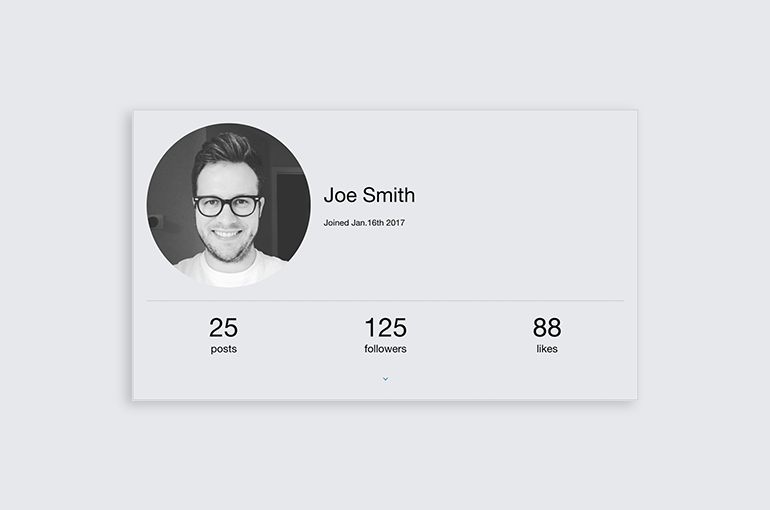
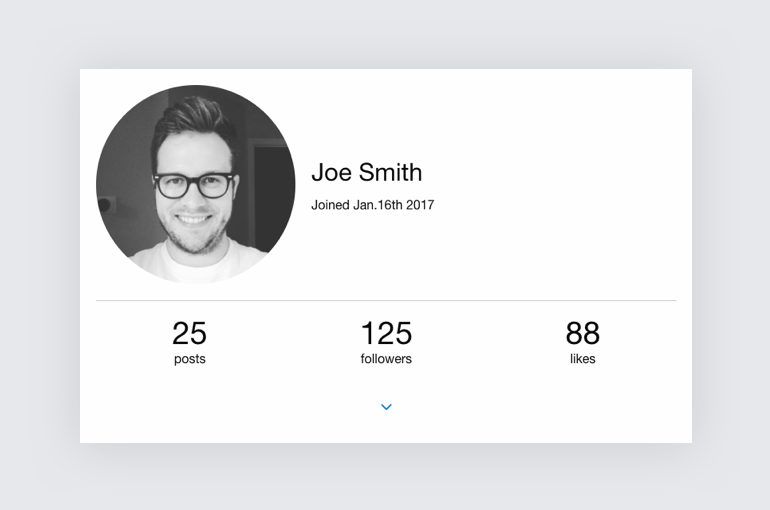
updates bg color and touch target

diff --git a/src/building-blocks/card-profile-stats/layout.html b/src/building-blocks/card-profile-stats/layout.html
@@ -1,39 +1,5 @@
 <div class="row align-center">
   <div class="medium-8 columns">
-      <div class="card-profile-stats">
-        <div class="card-profile-stats-intro">
-          <img class="card-profile-stats-intro-pic" src="https://pbs.twimg.com/profile_images/732634911761260544/OxHbNdTF.jpg" alt="profile-image" />
-          <div class="card-profile-stats-intro-content">
-            <h3>Joe Smith</h3>
-            <p><small>Joined Jan.16th 2017</small></p>
-          </div> <!-- /.card-profile-stats-intro-content -->
-        </div> <!-- /.card-profile-stats-intro -->
-
-        <hr />
-      			
-        <div class="card-profile-stats-container">
-          <div class="card-profile-stats-statistic">
-            <span class="stat">25</span>
-            <p>posts</p>
-          </div> <!-- /.card-profile-stats-statistic -->
-          <div class="card-profile-stats-statistic">
-            <span class="stat">125</span>
-            <p>followers</p>
-          </div> <!-- /.card-profile-stats-statistic -->
-          <div class="card-profile-stats-statistic">
-            <span class="stat">88</span>
-            <p>likes</p>
-          </div> <!-- /.card-profile-stats-statistic -->
-        </div> <!-- /.card-profile-stats-container -->
-      			
-        <div class="card-profile-stats-more">
-          <p class="card-profile-stats-more-link"><small><a href="#"><i class="fa fa-angle-down" aria-hidden="true"></i></a></small></p>
-          <div class="card-profile-stats-more-content">
-            <p>
-              Lorem ipsum dolor sit amet, consectetur adipisicing elit. Voluptatem libero fugit, pariatur maxime! Optio enim, deserunt quia molestiae fugiat delectus, dolore et esse nostrum, quod autem necessitatibus fugit soluta repellendus.
-            </p>
-          </div> <!-- /.card-profile-stats-more-content -->
-        </div> <!-- /.card-profile-stats-more -->
-      </div> <!-- /.card-profile-stats -->
+    {{> card-profile-stats}}
   </div> <!-- /.column -->
 </div> <!-- /.row -->

diff --git a/src/building-blocks/card-profile-stats/card-profile-stats.scss b/src/building-blocks/card-profile-stats/card-profile-stats.scss
@@ -1,11 +1,14 @@
+
+
 .card-profile-stats {
   border: 1px solid $medium-gray;
   margin: 0 0 1.25rem;
   padding: 1.25rem;
-	
+  background: $white;
+
   .card-profile-stats-intro {
     text-align: center;
-		
+
     .card-profile-stats-intro-pic {
       border-radius: 50%;
       margin: 0 0 1.25rem;
@@ -17,10 +20,10 @@
       } // p:last-child
     } // .card-profile-stats-intro-content
   } // .card-profile-stats-intro
-	
+
   .card-profile-stats-container {
     text-align: center;
-		
+
     .card-profile-stats-statistic {
       margin: 0 0 1.25rem;
 
@@ -29,13 +32,17 @@
       }
     } // .card-profile-stats-statistic
   } // .card-profile-stats-container
-	
+
   .card-profile-stats-more {
     .card-profile-stats-more-link {
       margin: 0;
       text-align: center;
+      font-size: 1.5rem;
+      color: $body-font-color;
+      padding: 0.5rem;
+      cursor: pointer;
     } // .card-profile-stats-more-link
-		
+
     .card-profile-stats-more-content {
       display: none;
     } // .card-profile-stats-more-content
@@ -45,8 +52,7 @@
 
 
 /* Large and up */
-@media screen and (min-width: 64em) {
-	
+@include breakpoint(large) {
   .card-profile-stats {
     .card-profile-stats-intro {
       align-items: center;
@@ -54,17 +60,17 @@
       flex-direction: row;
       flex-wrap: wrap;
       text-align: left;
-			
+
       .card-profile-stats-intro-pic {
         margin: 0 1.25rem 0 0;
         max-width: 250px;
       } // .card-profile-stats-intro-pic
     } // .card-profile-stats-intro
-		
+
     .card-profile-stats-container {
       display: flex;
       justify-content: space-around;
     } // .card-profile-stats-container
   } // .card-profile-stats
-	
+
 } // media query - large & up

diff --git a/src/building-blocks/card-profile-stats/card-profile-stats.html b/src/building-blocks/card-profile-stats/card-profile-stats.html
@@ -3,12 +3,12 @@
     <img class="card-profile-stats-intro-pic" src="https://pbs.twimg.com/profile_images/732634911761260544/OxHbNdTF.jpg" alt="profile-image" />
     <div class="card-profile-stats-intro-content">
       <h3>Joe Smith</h3>
-      <p><small>Joined Jan.16th 2017</small></p>
+      <p>Joined Jan.16th 2017</small></p>
     </div> <!-- /.card-profile-stats-intro-content -->
   </div> <!-- /.card-profile-stats-intro -->
 
   <hr />
-			
+
   <div class="card-profile-stats-container">
     <div class="card-profile-stats-statistic">
       <span class="stat">25</span>
@@ -23,9 +23,9 @@
       <p>likes</p>
     </div> <!-- /.card-profile-stats-statistic -->
   </div> <!-- /.card-profile-stats-container -->
-			
+
   <div class="card-profile-stats-more">
-    <p class="card-profile-stats-more-link"><small><a href="#"><i class="fa fa-angle-down" aria-hidden="true"></i></a></small></p>
+    <p class="card-profile-stats-more-link"><a href="#"><i class="fa fa-angle-down" aria-hidden="true"></i></a></p>
     <div class="card-profile-stats-more-content">
       <p>
         Lorem ipsum dolor sit amet, consectetur adipisicing elit. Voluptatem libero fugit, pariatur maxime! Optio enim, deserunt quia molestiae fugiat delectus, dolore et esse nostrum, quod autem necessitatibus fugit soluta repellendus.
